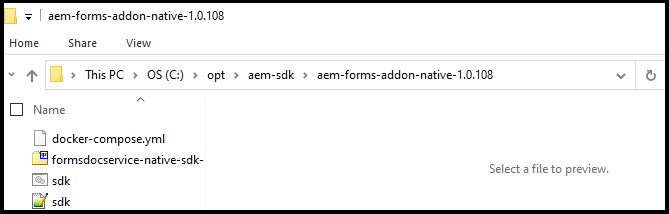
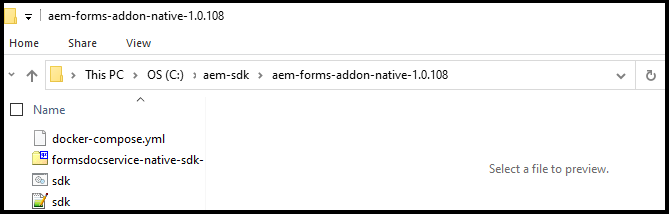
Forms CS: Docker SDK

Changed region(s): [[0.299, 0.3084, 0.7474, 0.3925]]

diff --git a/help/setup-local-development-environment.md b/help/setup-local-development-environment.md
@@ -164,29 +164,29 @@ AEM Forms as a Cloud Services provides a docker-based SDK environment for easier
     >[!NOTE]
     >
     > * Docker for Mac whitelists a few folders (and their subfolders) 
-    > for bind mounting. Explicitly configure mounting a folder 
-    > outside these well known defaults.  
+    > for bind mounting. Explicitly mount folders containing local AEM Author instances.
+    >
     > * Docker Desktop for Windows supports two backends, Hyper-V 
     > (legacy) and WSL2 (modern). File sharing is automatically 
     > managed by Docker when using WSL2 (modern). You have to 
     > explicitly configure file sharing while using  Hyper-V (legacy).  
 
-1. Create a folder, say aem-sdk, in parallel to your author and publish instances. For example /opt/aem-sdk.  
+1. Create a folder, say aem-sdk, in parallel to your author and publish instances. For example C:\aem-sdk.  
 
-1. Extract the `aem-forms-addon-<version>.zip\aem-forms-addon-native-<version>.zip` file. 
+1. Extract the `aem-forms-addon-<version>.zip\aem-forms-addon-native-<version>.zip` file.
 
    ![extracted aem forms add on native](assets/microservice-docker.png)
 
-1. Create an environment variable AEM_HOME and point to local AEM Author installation. For example opt/aem/author.
+1. Create an environment variable AEM_HOME and point to local AEM Author installation. For example C:\aem\author\.
 
-1. Open sdk.bat or sdk.sh for editing. Set the AEM_HOME to point to local AEM Author installation. For example opt/aem/author.
+1. Open sdk.bat or sdk.sh for editing. Set the AEM_HOME to point to local AEM Author installation. For example C:\aem\author\.
 
 1. Open command prompt and navigate to the `aem-forms-addon-native-<version>` folder.  
 
-1. Run the following command to start the SDK: 
+1. Run the following command to start the SDK:
 
-    * (on Microsoft Windows) sdk.bat start 
-    * (on Linux or Apple Mac OS) sdk.sh start 
+    * (on Microsoft Windows) sdk.bat start
+    * (on Linux or Apple Mac OS) sdk.sh start
 
     ![start-sdk-command](assets/start-sdk.png)
 
